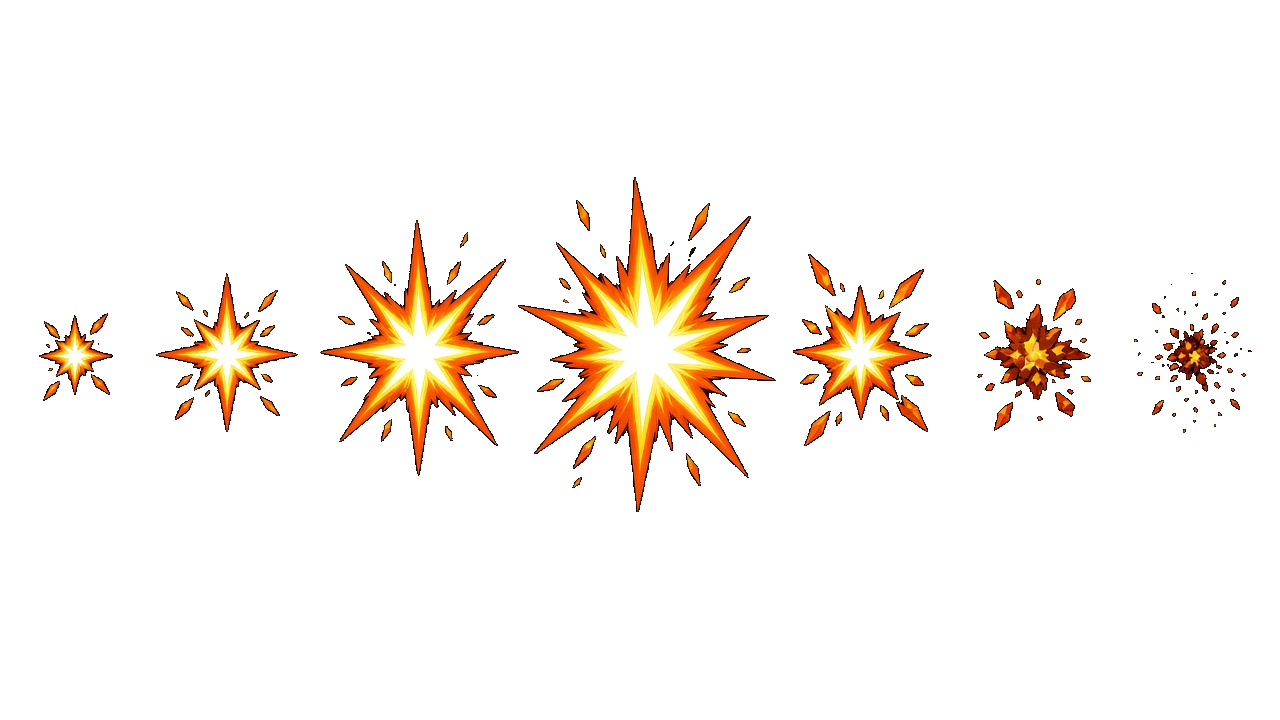
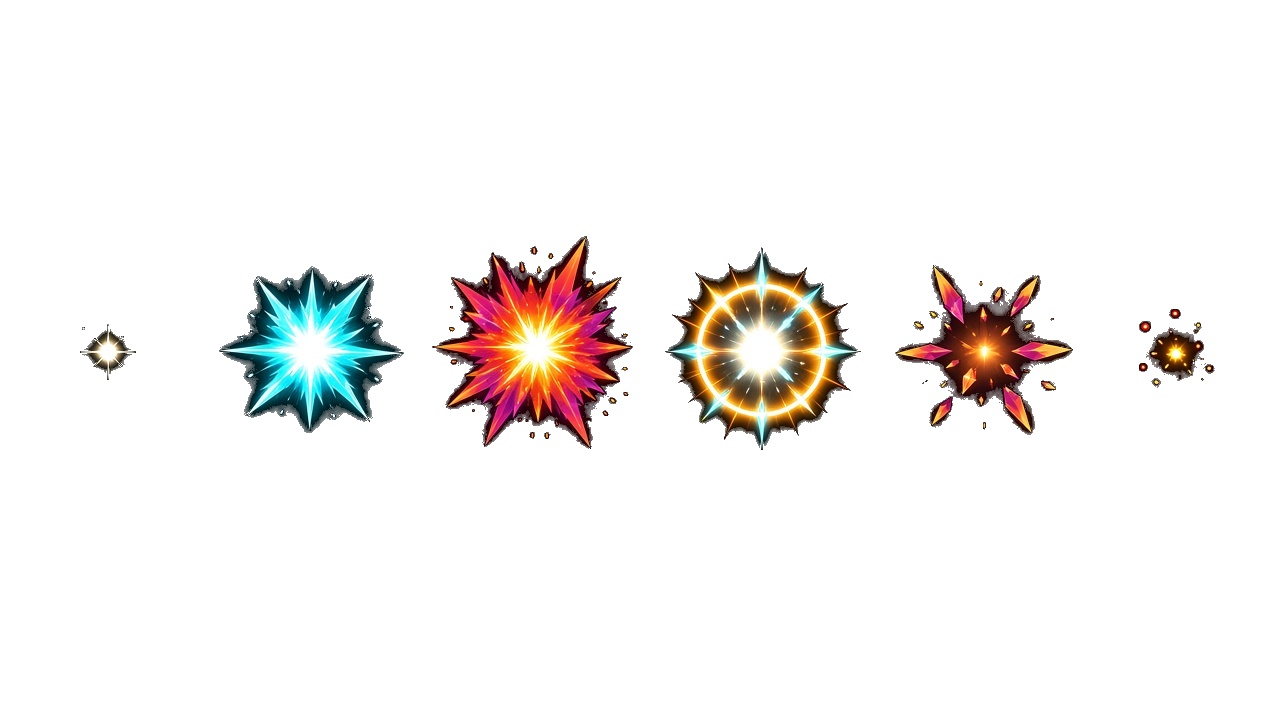
Swap combat contact VFX to punch v3 strips.
Hit flash, the damage float, and Ambush slash use the transparent punch-v3 sheets. The float sits on the target head at the same resolve as the flash, the compact spark, and the flinch. Ambush still slashes only after the back-tile plant. Mark Shot windup, kit numbers, maps, and walks stay put.

Changed region(s): [[0.0312, 0.2444, 0.8438, 0.7028], [0.875, 0.4278, 0.9688, 0.5806]]

diff --git a/docs/ship_log.md b/docs/ship_log.md
@@ -2,6 +2,12 @@
 
 Durable record of feel passes on the mobile track. Kit numbers in here are reminders of what stayed Locked. They are not a second source of truth. The legal sentences live in `docs/STASIUM_XII_GDD_handoff.md`.
 
+## 2026-09-26 — Combat contact punch v3
+
+Presentation only. No APK.
+
+Hit flash, the damage float, and Ambush slash are the transparent punch-v3 strips under `art/vfx/scenario/`. Footstep dust, Mark Shot impact, Detonate, and the Mark Shot bow windup stay on their current plates. Ambush still plants on the back tile, then slashes. On contact the flash, the compact spark, the float, and the flinch share the resolve, and each one finishes inside 0.2–0.4s. The hit flash keeps its cyan and gold. Locked kit numbers, map geometry, and walks are unchanged.
+
 ## 2026-09-26 — Mobile debug APK 0.1.26
 
 Sideload cut of the `mobile` tip for Luca. Stamp: `version/name` `0.1.26-mobile`, `version/code` `27`. Those numbers were already on the tip from the Windmere stamp. The note that used to sit here recorded an unpublished APK whose bytes predated the Slagcrown lava punch (#167). This entry replaces that note. The APK below is a fresh export of tip `00f6a9a` (#170). Package `com.maurogp12.stasiumxii.mobile`. Godot `4.7.2.stable.official.ed1daf0bf`, official templates, arm64-v8a debug APK.
